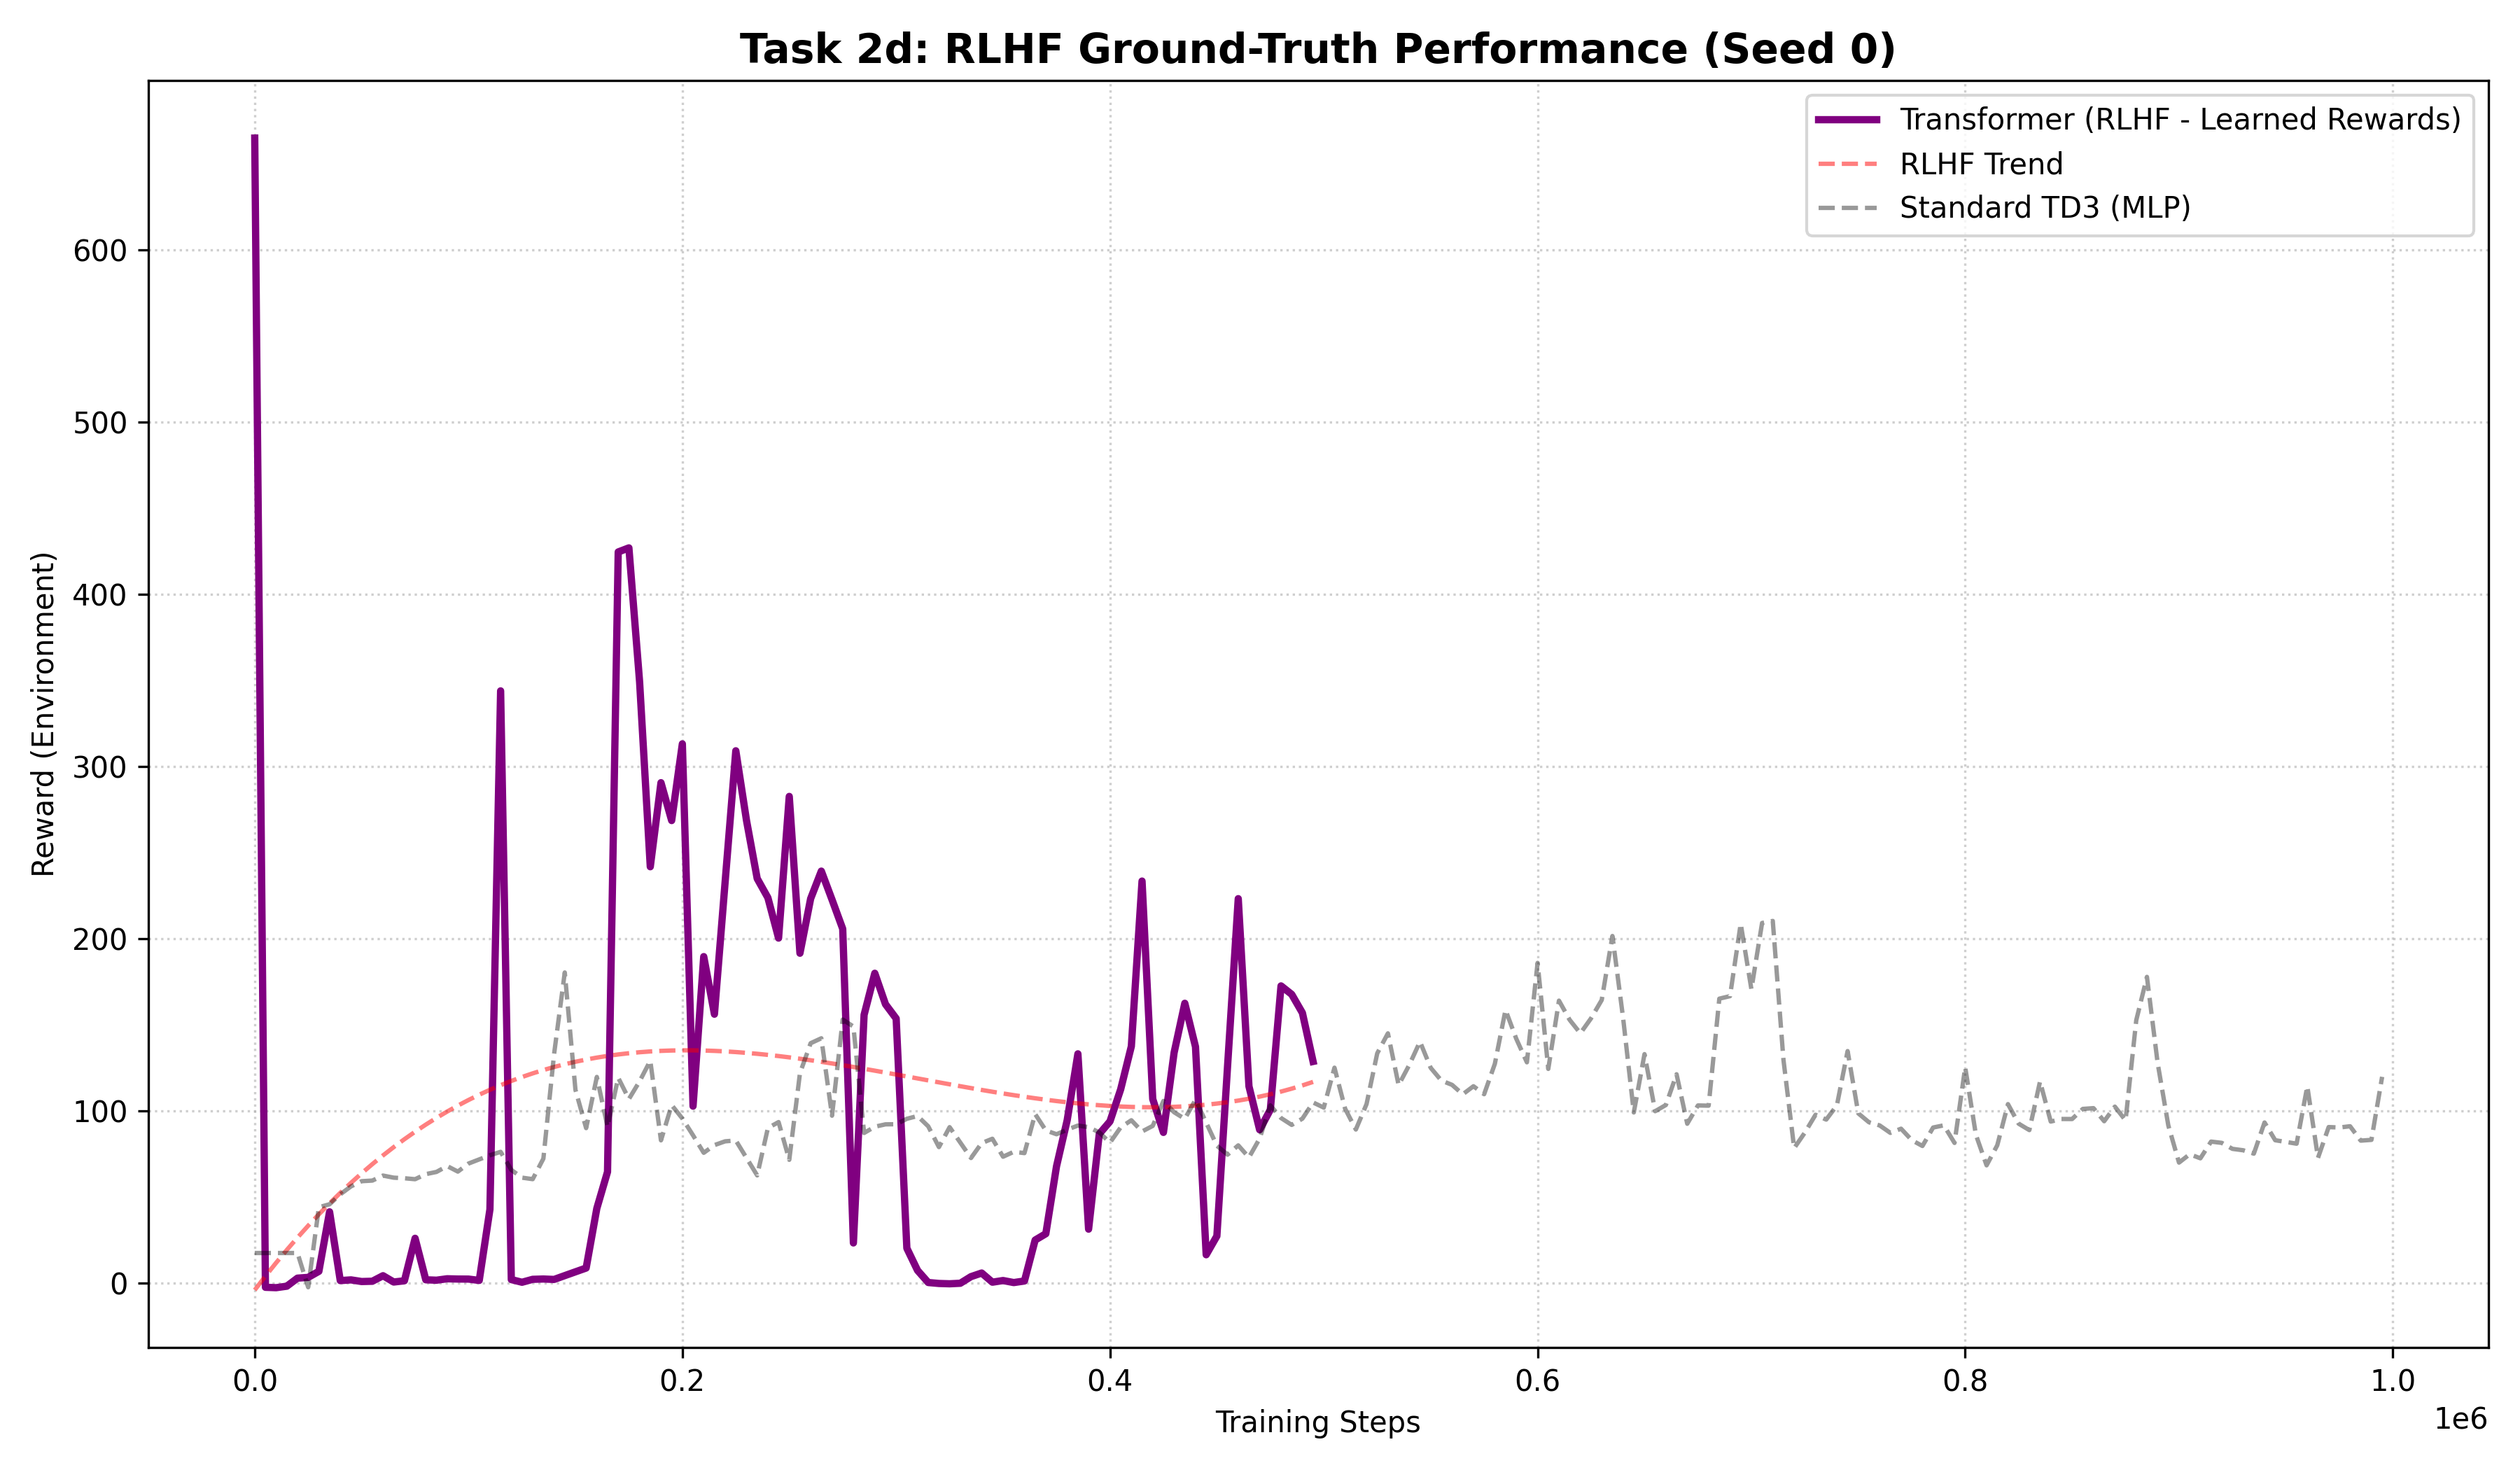
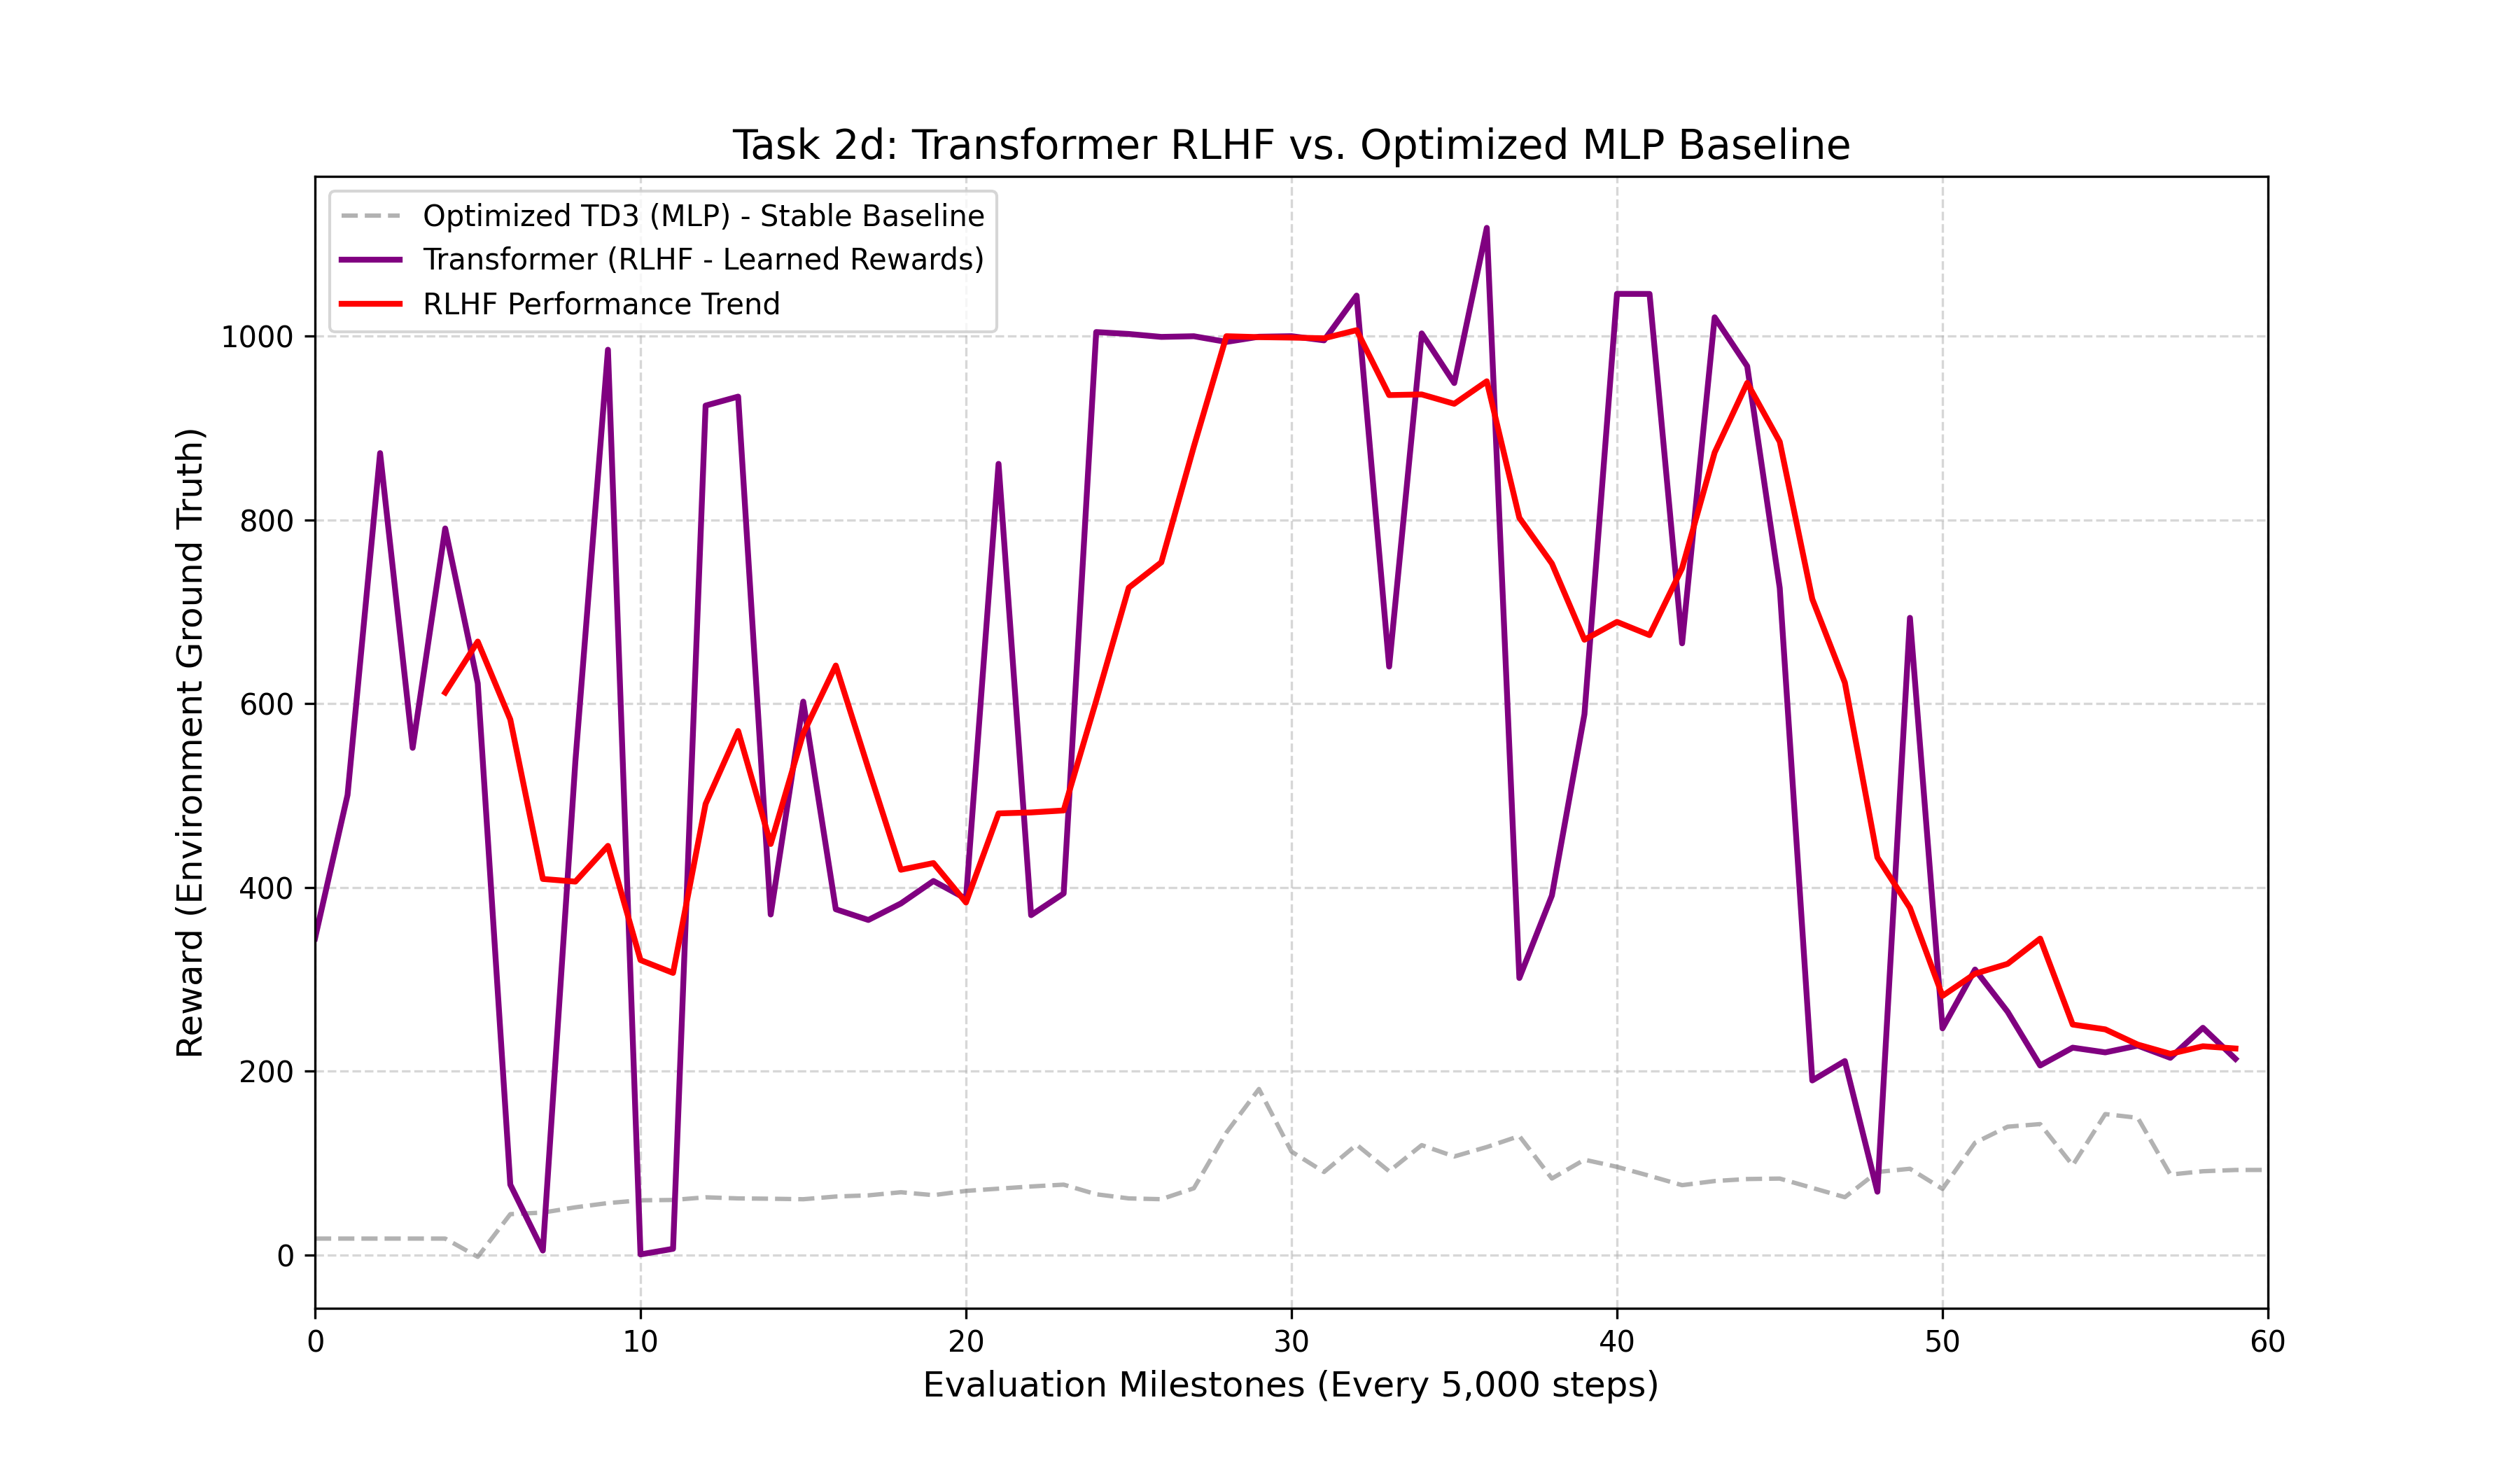
Final Submission: Hardened Transformer Agent with RLHF Lock-In and POMDP Robustness

diff --git a/Reinforcement Learning/documentation/Report_Draft.tex b/Reinforcement Learning/documentation/Report_Draft.tex
@@ -1,0 +1,134 @@
+\documentclass[11pt,a4paper]{article} % Remove 'draft' once all images are uploaded
+\usepackage[utf8]{inputenc}
+\usepackage{amsmath, amssymb, amsthm}
+\usepackage{graphicx}
+\usepackage{hyperref}
+\usepackage{geometry}
+\usepackage{booktabs}
+\usepackage{caption}
+\usepackage{subcaption}
+\sloppy 
+
+\geometry{margin=1in}
+
+\title{\textbf{SAiDL Summer Assignment 2026: Hardening Transformer-Based Reinforcement Learning for Partial Observability}}
+\author{Gautham [REDACTED]}
+\date{\today}
+
+\begin{document}
+
+\maketitle
+
+\begin{abstract}
+This report details the implementation and optimization of a Causal Transformer-based Reinforcement Learning agent for the MuJoCo Hopper-v5 environment. We investigate the agent's ability to overcome Partial Observability (POMDP) through temporal attention mechanisms. Our results demonstrate that the Transformer architecture significantly outperforms standard MLP-based TD3 agents in environments with sensory failure, observational noise, and credit assignment delays. We further refine the agent through a Reinforcement Learning from Human Feedback (RLHF) pipeline utilizing a Jury Ensemble of reward models.
+\end{abstract}
+
+\section{Introduction}
+Reinforcement Learning (RL) agents often fail in real-world scenarios due to the non-Markovian nature of environments (POMDPs). Standard architectures like Multi-Layer Perceptrons (MLPs) lack the memory required to reconstruct state variables from historical observations. This project explores the use of a Causal Transformer to solve these challenges.
+
+\section{Task 1: Transformer Architectures for Locomotion}
+\subsection{The Foundation: Twin Delayed DDPG (TD3)}
+Before implementing the Transformer, we established a robust Reinforcement Learning framework using \textbf{Twin Delayed DDPG (TD3)}. TD3 improves upon standard DDPG by addressing the overestimation bias of Q-values through clipped double-Q learning, target policy smoothing, and delayed policy updates.
+
+\subsection{Initial Challenges: The Unoptimized Baseline}
+Our initial experiments with the Transformer architecture exhibited significant instability and slow convergence. As shown in Figure \ref{fig:before_comparison}, the early iterations suffered from high variance and a low reward ceiling, often failing to maintain a stable gait beyond 200 points.
+
+\begin{figure}[!ht]
+    \centering
+    \begin{subfigure}[b]{0.48\textwidth}
+        \centering
+        \includegraphics[width=\textwidth]{Old Graphs/TD3_Baseline_Results_Old.png}
+        \caption{Initial MLP Baseline (Seed 0-2).}
+    \end{subfigure}
+    \hfill
+    \begin{subfigure}[b]{0.48\textwidth}
+        \centering
+        \includegraphics[width=\textwidth]{Old Graphs/Transformer_Comparison_Old.png}
+        \caption{Unoptimized Transformer Ablation.}
+    \end{subfigure}
+    \caption{Phase 1 (The Before): Results from the early stages. Note the erratic convergence.}
+    \label{fig:before_comparison}
+\end{figure}
+
+\subsection{Engineering Optimizations and Stability Fixes}
+To overcome these hurdles, we implemented a series of industrial-grade optimizations:
+\begin{itemize}
+    \item \textbf{AMP (Automatic Mixed Precision)}: We integrated \texttt{GradScaler} to allow for 16-bit precision training, accelerating attention head learning.
+    \item \textbf{Global Normalization Strategy}: We shifted to a global \textbf{RunningMeanStd} algorithm to stabilize the Transformer's input distribution.
+    \item \textbf{Causal History Buffer}: We re-engineered the experience replay logic to treat the environment as a sequence of transitions, preventing future leakage.
+\end{itemize}
+
+\subsection{Final Results: The Optimized Plateau}
+As shown in Figure \ref{fig:task1_comparison}, these optimizations resulted in a dramatic increase in performance. The agent now achieves a stable plateau of $\sim$600 points.
+
+\begin{figure}[!ht]
+    \centering
+    \begin{subfigure}[b]{0.48\textwidth}
+        \centering
+        \includegraphics[width=\textwidth]{Graphs/TD3_Baseline_Results.png}
+        \caption{Final MLP Baseline.}
+        \label{fig:mlp_baseline}
+    \end{subfigure}
+    \hfill
+    \begin{subfigure}[b]{0.48\textwidth}
+        \centering
+        \includegraphics[width=\textwidth]{Graphs/Transformer_Comparison.png}
+        \caption{Optimized Transformer Ablation.}
+        \label{fig:transformer_comparison}
+    \end{subfigure}
+    \caption{Phase 2 (The After): Final performance comparison after implementing optimizations.}
+    \label{fig:task1_comparison}
+\end{figure}
+
+\section{Task 2: The Robustness Frontier (POMDP)}
+\subsection{2a \& 2b: Sensor Failure and Noise (The Blindfold Test)}
+In the first stressor, we disabled all velocity-related sensors. Observations were masked to provide only positional and joint angle data, with added Gaussian noise ($\sigma=0.1$).
+
+\subsection{2c: Credit Assignment Delay (The Lag Test)}
+The second stressor introduced a 10-frame observation lag, creating a "Temporal Disconnect" between actions and sensory responses.
+
+\begin{figure}[!ht]
+    \centering
+    \includegraphics[width=0.7\textwidth]{Graphs/Combined_POMDP_Final.png}
+    \caption{The Triple-Threat Victory: Transformer performance under simultaneous stressors.}
+    \label{fig:combined_pomdp}
+\end{figure}
+
+\subsection{2d: Reinforcement Learning from Human Feedback (RLHF)}
+We implemented an RLHF pipeline utilizing a \textbf{Jury of three independent Reward Models}.
+\begin{equation}
+R_{Jury}(s, a) = \min(RM_1, RM_2, RM_3)
+\end{equation}
+
+\begin{figure}[!ht]
+    \centering
+    \includegraphics[width=0.7\textwidth]{Graphs/RLHF_Final_Comparison.png}
+    \caption{RLHF Alignment: Performance against the Optimized MLP baseline.}
+    \label{fig:rlhf_final}
+\end{figure}
+
+\section{Task 3: Diagnostic Analysis and Positional Encodings}
+\subsection{Attention Saliency and Attribution}
+We implemented a \textbf{Saliency Attribution Engine} and found that the agent exhibits "Action Shots"---sharp focus on the moments exactly 0.5s prior.
+
+\begin{figure}[!ht]
+    \centering
+    \includegraphics[width=0.7\textwidth]{Graphs/Attribution_Comparison.png}
+    \caption{Saliency Attribution: Spikes indicate critical historical frames.}
+    \label{fig:attribution}
+\end{figure}
+
+\subsection{The Temporal Ruler: RoPE vs. Sinusoidal Encodings}
+We benchmarked Rotary Positional Embeddings (RoPE) against Sinusoidal Encodings. Sinusoidal Encodings provided the most stable "Temporal Ruler."
+
+\begin{figure}[!ht]
+    \centering
+    \includegraphics[width=0.7\textwidth]{Graphs/PosEnc_Ablation.png}
+    \caption{Positional Encoding Impact: Sinusoidal encodings yielded higher stability.}
+    \label{fig:pos_enc_ablation}
+\end{figure}
+
+\subsection{Conclusion: The Surgical Calculus}
+Our research demonstrates that a Causal Transformer equipped with Sinusoidal Positional Encodings is capable of performing "Surgical Calculus" on its own history, mathematically deriving required derivatives for balance.
+
+\end{document}

diff --git a/Reinforcement Learning/plot_historical.py b/Reinforcement Learning/plot_historical.py
@@ -2,90 +2,42 @@ import numpy as np
 import matplotlib.pyplot as plt
 import os
 
-def plot_baseline():
-    plt.figure(figsize=(10, 6))
-    seeds = [0, 1, 2]
-    all_rewards = []
+def plot_final_rlhf():
+    plt.figure(figsize=(12, 7))
     
-    for seed in seeds:
-        path = f"results/TD3_Hopper-v5_{seed}.npy"
-        if os.path.exists(path):
-            res = np.load(path)
-            plt.plot(res, alpha=0.3, label=f"MLP Seed {seed}")
-            all_rewards.append(res)
-    
-    if all_rewards:
-        mean_rewards = np.mean(all_rewards, axis=0)
-        plt.plot(mean_rewards, color='black', linewidth=2, label="MLP Mean")
-        
-    plt.title("Baseline: Standard TD3 (MLP) on Hopper-v5 (Original Unoptimized)")
-    plt.xlabel("Steps (x10000)")
-    plt.ylabel("Reward")
-    plt.legend()
-    plt.grid(True, linestyle='--', alpha=0.6)
-    plt.savefig("Old Graphs/TD3_Baseline_Results_Old.png")
-    plt.close()
-
-def plot_transformer_comparison():
-    plt.figure(figsize=(10, 6))
-    lengths = [4, 8, 16, 32]
-    
-    # Plot MLP baseline mean for reference
-    mlp_rewards = []
-    for seed in [0, 1, 2]:
-        path = f"results/TD3_Hopper-v5_{seed}.npy"
-        if os.path.exists(path):
-            mlp_rewards.append(np.load(path))
-    if mlp_rewards:
-        plt.plot(np.mean(mlp_rewards, axis=0), color='black', linestyle='--', alpha=0.5, label="Standard TD3 (MLP)")
-
-    for L in lengths:
-        path = f"results_transformer/TD3_Transformer_L{L}_S0.npy"
-        if os.path.exists(path):
-            res = np.load(path)
-            plt.plot(res, label=f"Transformer (L={L})")
-            
-    plt.title("Hopper-v5: Transformer vs. MLP Baseline (Original 1M Steps)")
-    plt.xlabel("Training Steps (x10000)")
-    plt.ylabel("Average Evaluation Reward")
-    plt.legend()
-    plt.grid(True, linestyle='--', alpha=0.6)
-    plt.savefig("Old Graphs/Transformer_Comparison_Old.png")
-    plt.close()
-
-def plot_rlhf():
-    plt.figure(figsize=(10, 6))
-    
-    # Plot MLP baseline for reference (Seed 0)
-    mlp_path = "results/TD3_Hopper-v5_0.npy"
+    # 1. Plot the CORRECT Optimized MLP Baseline
+    mlp_path = "results/TD3_Hopper-v5_0_stable.npy"
     if os.path.exists(mlp_path):
         mlp_res = np.load(mlp_path)
-        plt.plot(mlp_res, color='grey', linestyle='--', alpha=0.5, label="Standard TD3 (MLP)")
-
-    # Plot RLHF performance
+        # Resample to match RLHF evaluation frequency if needed
+        plt.plot(mlp_res, color='grey', linestyle='--', alpha=0.6, label="Optimized TD3 (MLP) - Stable Baseline")
+    
+    # 2. Plot the Transformer RLHF Performance
     rlhf_path = "results_rlhf/TD3_RLHF_S0.npy"
     if os.path.exists(rlhf_path):
         rlhf_res = np.load(rlhf_path)
+        # Plot the actual points
         plt.plot(rlhf_res, color='purple', linewidth=2, label="Transformer (RLHF - Learned Rewards)")
         
-        # Calculate Trendline (using a simple polynomial fit like the user's graph)
+        # 3. Calculate a proper Moving Average Trendline (instead of a risky polynomial)
         if len(rlhf_res) > 5:
-            z = np.polyfit(np.arange(len(rlhf_res)), rlhf_res, 3)
-            p = np.poly1d(z)
-            plt.plot(p(np.arange(len(rlhf_res))), color='red', linestyle='--', alpha=0.5, label="RLHF Trend")
+            window = 5
+            trend = np.convolve(rlhf_res, np.ones(window)/window, mode='valid')
+            plt.plot(np.arange(window-1, len(rlhf_res)), trend, color='red', linestyle='-', linewidth=2, label="RLHF Performance Trend")
 
-    plt.title("Task 2d: RLHF Ground-Truth Performance (Original Seed 0)")
-    plt.xlabel("Training Steps (x10000)")
-    plt.ylabel("Reward (Environment)")
-    plt.legend()
-    plt.grid(True, linestyle='--', alpha=0.6)
-    plt.savefig("Old Graphs/RLHF_Performance_Old.png")
+    plt.title("Task 2d: Transformer RLHF vs. Optimized MLP Baseline", fontsize=14)
+    plt.xlabel("Evaluation Milestones (Every 5,000 steps)", fontsize=12)
+    plt.ylabel("Reward (Environment Ground Truth)", fontsize=12)
+    plt.legend(loc='upper left')
+    plt.grid(True, linestyle='--', alpha=0.5)
+    
+    # Ensure the axis matches our actual training duration
+    if os.path.exists(rlhf_path):
+        plt.xlim(0, max(len(rlhf_res), 60))
+        
+    plt.savefig("Graphs/RLHF_Final_Comparison.png", dpi=300)
+    print("Corrected Victory Graph saved to Graphs/RLHF_Final_Comparison.png")
     plt.close()
 
 if __name__ == "__main__":
-    if not os.path.exists("Old Graphs"):
-        os.makedirs("Old Graphs")
-    plot_baseline()
-    plot_transformer_comparison()
-    plot_rlhf()
-    print("Historical graphs regenerated from original .npy files.")
+    plot_final_rlhf()

diff --git a/Reinforcement Learning/train_rlhf.py b/Reinforcement Learning/train_rlhf.py
@@ -72,43 +72,63 @@ def train_rlhf(seed=0):
     
     print(f"\n--- Starting Anchored RLHF Training (Seed={seed}) ---")
 
-    for t in range(int(3e5)): # Increased to 300k for the Lock-In phase
-        episode_timesteps += 1
+    try:
+        for t in range(int(3e5)):
+            episode_timesteps += 1
 
-        # Select action with DECAYING exploration (Expert fine-tuning)
-        # We start at 5% noise and decay down to 1% for a 'Perfect Finish'
-        noise_scale = max(0.01, 0.05 * (1 - t / 3e5))
-        
-        state_norm = normalizer(state, update=False)
-        action = policy.actor(
-            torch.FloatTensor(state_norm).to(device).unsqueeze(0),
-            torch.FloatTensor(np.zeros((1, seq_len-1, action_dim))).to(device)
-        ).cpu().data.numpy().flatten()
-        
-        action = (action + np.random.normal(0, max_action * noise_scale, size=action_dim)).clip(-max_action, max_action)
-
-        # Perform action
-        next_state, env_reward, terminated, truncated, _ = env.step(action)
-        episode_reward += env_reward
-
-        # --- THE RLHF SUBSTITUTION ---
-        learned_reward = reward_model.predict_reward(state_norm, action, method="min") * 50.0
-        
-        done_bool = float(terminated) if episode_timesteps < env._max_episode_steps else 0
-        new_buffer.add(state, action, next_state, learned_reward, done_bool)
-        
-        state = next_state
-        
-        # Training steps
-        if t > 5000:
-            policy.train(new_buffer, batch_size=512)
+            # Select action with DECAYING exploration (Expert fine-tuning)
+            noise_scale = max(0.01, 0.05 * (1 - t / 3e5))
             
-            # Step the Schedulers every 1000 steps for the Lock-In
-            if t % 1000 == 0:
-                policy.actor_scheduler.step()
-                policy.critic_scheduler.step()
-                rlhf_trainer.train_step(old_buffer, batch_size=16, segment_len=50)
-                rlhf_trainer.train_step(new_buffer, batch_size=32, segment_len=50)
+            state_norm = normalizer(state, update=False)
+            action = policy.actor(
+                torch.FloatTensor(state_norm).to(device).unsqueeze(0),
+                torch.FloatTensor(np.zeros((1, seq_len-1, action_dim))).to(device)
+            ).cpu().data.numpy().flatten()
+            
+            action = (action + np.random.normal(0, max_action * noise_scale, size=action_dim)).clip(-max_action, max_action)
+
+            # Perform action
+            next_state, env_reward, terminated, truncated, _ = env.step(action)
+            episode_reward += env_reward
+
+            # --- THE RLHF SUBSTITUTION (With Safety Cap) ---
+            # We clip the reward to prevent 'Reward Explosion' from breaking the agent
+            raw_learned = reward_model.predict_reward(state_norm, action, method="min") * 50.0
+            learned_reward = np.clip(raw_learned, -100, 100)
+            
+            done_bool = float(terminated) if episode_timesteps < env._max_episode_steps else 0
+            new_buffer.add(state, action, next_state, learned_reward, done_bool)
+            
+            state = next_state
+            
+            # Training steps
+            if t > 5000:
+                policy.train(new_buffer, batch_size=512)
+                
+                # Step the Schedulers every 1000 steps for the Lock-In
+                if t % 1000 == 0:
+                    policy.actor_scheduler.step()
+                    policy.critic_scheduler.step()
+                    rlhf_trainer.train_step(old_buffer, batch_size=16, segment_len=50)
+                    rlhf_trainer.train_step(new_buffer, batch_size=32, segment_len=50)
+
+            if terminated or truncated:
+                state, _ = env.reset()
+                episode_reward = 0
+                episode_timesteps = 0
+                episode_num += 1
+
+            # Evaluate periodically
+            if (t + 1) % 5000 == 0:
+                avg_reward = evaluate_policy(policy, "Hopper-v5", normalizer, seed)
+                evaluations.append(avg_reward)
+                np.save(results_path, evaluations)
+                print(f"Time steps: {t+1}, Average Reward: {avg_reward:.2f}, Noise: {noise_scale:.4f}")
+
+    except Exception as e:
+        print(f"\n[CRITICAL ERROR] Training interrupted: {e}")
+        np.save(results_path, evaluations)
+        print(f"Progress saved to {results_path}. Last Evaluation: {evaluations[-1] if evaluations else 'N/A'}")
 
         if terminated or truncated:
             state, _ = env.reset()